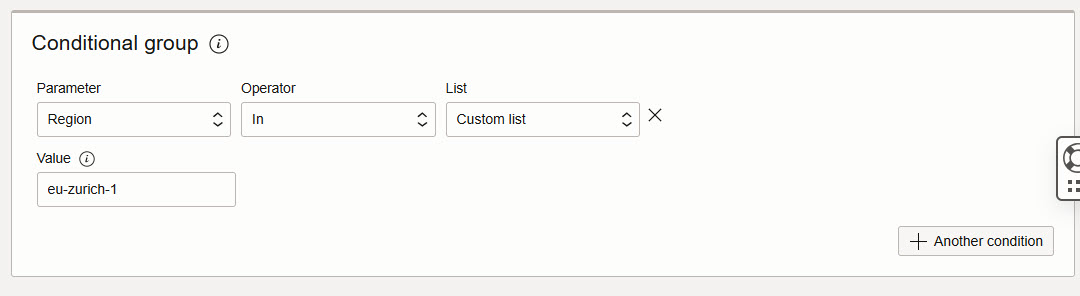
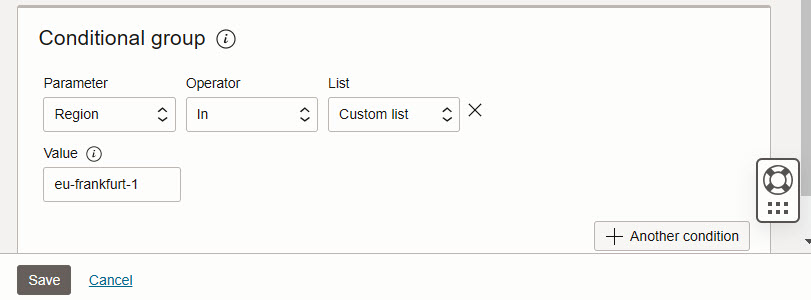
fixes typos

Changed region(s): [[0.0, 0.0, 1.0, 1.0], [0.0308, 0.2432, 0.6165, 0.6993], [0.0, 0.0912, 0.3083, 0.1824]]

diff --git a/lab/ex02/2x03-Exercise.md b/lab/ex02/2x03-Exercise.md
@@ -47,7 +47,7 @@ have select the proper compartment in from the dropdown list on left side.
 
 We must add the responder recipe to target configuration.
 
-Cloud Guard -> Configuration -> Targets
+Identity & Security -> Cloud Guard -> Configuration -> Targets
 
 ![>> step_1](../../images/screenshot-cloud-guard-auto-resolve_1.jpg)
 
@@ -56,7 +56,7 @@ Select your created target an scroll at the bottom.
 ![>> step_2](../../images/screenshot-cloud-guard-auto-resolve_2.jpg)
 
 In section _Configuration_ und _Responder recipes_, add recipe. Select your
-responder receive from dropdown list and press _Add recipes_. Do not select the
+responder recipe from dropdown list and press _Add recipes_. Do not select the
 Oracle managed recipe as you have no privileges there to change any settings.
 
 ![>> step_3](../../images/screenshot-cloud-guard-auto-resolve_3.jpg)
@@ -73,7 +73,12 @@ compartment level. We set condition
 
 - In section _Setting_, activated _Execute automatically_.
 - Enable checkbox to confirm the execution.
-- Set Conditional Group for parameter region to eu-zurich_1
+- Set Conditional Group for parameter region to **eu-frankfurt-1**
+- Parameter: Region
+- Operator: In
+- List: Custom List
+- Value: eu-frankfurt-1
+
 
 ![>> step_5](../../images/screenshot-cloud-guard-auto-resolve_5.jpg)
 ![>> step_6](../../images/screenshot-cloud-guard-auto-resolve_6.jpg)
@@ -90,9 +95,9 @@ Add basic information and description. Call it _private_bucket_. Ensure you are
 in the correct compartment. If not, select your compartment in left side dropdown
 menu.
 
-Press _Create Bucket_.
+Go to Storage -> Object Storage & Archive Storage -> *Create Bucket*.
 
-- Set Bucket Name to _public-bucket_ and let other settings as per default.
+- Set Bucket Name to _private-bucket_ and let other settings as per default.
 
 ![>> step7](../../images/screenshot-cloud-guard-auto-resolve_7.jpg)
 
@@ -100,7 +105,7 @@ Press _Create_ at the bottom.
 
 #### Edit Visibility
 
-Edit created bucket by click on the three dots on bucket line -> Edit Visibility.
+Edit created bucket from above by click on the three dots on bucket line -> Edit Visibility. Change it to public.
 
 ![>> step_8](../../images/screenshot-cloud-guard-auto-resolve_8.jpg)
 
@@ -115,16 +120,18 @@ The bucket is set to public and marked by a yellow triangle.
 #### Verify Auto Resolving
 
 After a couple of seconds, you can verify the Responder activity. There are two
-new entries to make the bucket private Cloud Guard -> Alerts -> Responder activity
+new entries to make the bucket private.
+
+Identity & Security -> Cloud Guard -> Alerts -> Responder activity
 
 ![>> step_10](../../images/screenshot-cloud-guard-auto-resolve_10.jpg)
 
 #### Verification
 
-The visibility for your created Object Storage bucket has automatically changed
+The visibility for your Object Storage bucket has automatically changed
 now to Private.
 
-Storage -> Buckets
+Storage -> Object Storage -> Buckets
 
 ![>> step_11](../../images/screenshot-cloud-guard-auto-resolve_11.jpg)
 

diff --git a/lab/ex02/2x04-Exercise.md b/lab/ex02/2x04-Exercise.md
@@ -39,8 +39,6 @@ your designated compartment.
 Login as User XYZ in OCI console. Ensure you have select the proper compartment
 in from the dropdown list on left side.
 
->> Overview
-
 ### Enable Auto Resolve Notification by Topic
 
 #### Create Topic, Subscription and Confirmation
@@ -48,23 +46,23 @@ in from the dropdown list on left side.
 A topic and a subscription is required to enable the notification service based
 on events.
 
-1. Developer Services -> Application Integration -> Notifications -> Create Topic
+Developer Services -> Application Integration -> Notifications -> Create Topic
 
 ![>> step_1](../../images/screenshot-cloud-guard-notifications_1.jpg)
 
-2. Add details, _Create_.
+Add details, _Create_.
 
 ![>> step_2](../../images/screenshot-cloud-guard-notifications_2.jpg)
 
-3. The state of the new created topic is active.
+The state of the new created topic is active.
 
 ![>> step_3](../../images/screenshot-cloud-guard-notifications_3.jpg)
 
-4. View the details, click on topic name. Create a new Subscription: _Create Subscription_.
+View the details, click on topic name. Create a new Subscription: _Create Subscription_.
 
 ![>> step_4](../../images/screenshot-cloud-guard-notifications_4.jpg)
 
-5. Select:
+Select:
 
 - Protocol: Email
 - Email: add your personal mail address, a mail address where you have immediate
@@ -74,7 +72,7 @@ Create the subscription and check your inbox.
 
 ![>> step_5](../../images/screenshot-cloud-guard-notifications_5.jpg)
 
-1. Confirm the subscription
+Confirm the subscription
 
 ![>> step_6](../../images/screenshot-cloud-guard-notifications_6.jpg)
 
@@ -88,11 +86,11 @@ We create a rule based on Cloud Guard changes.
 
 Observability & Management -> Events Service -> Rules -> _Create Rule_.
 
-1. Set Display Name and Description, as example _rule-oci-sec-ws-lab-00-cloudguard_.
+Set Display Name and Description, as example _rule-oci-sec-ws-lab-00-cloudguard_.
 
 ![>> step_1](../../images/screenshot-cloud-guard-rule_1.jpg)
 
-2. Select Rule Condition.
+Select Rule Condition.
 
 In section _Rule Conditions_, select _Service Name_ and _Event Type_. Select
 these event types:
@@ -103,11 +101,22 @@ these event types:
 
 ![>> step_2](../../images/screenshot-cloud-guard-rule_2.jpg)
 
-3. Select Actions
+Select Actions
 
 - Action-Type: Notifications
 - Notifications-Compartment: OCI-SEC-WS-LAB-<nn> (your compartment name)
 - Topic: topic-oci-sec-ws-lab-001 (the topic you created)
+
+![>> step_3](../../images/screenshot-cloud-guard-rule_3.jpg)
+
+### Test
+
+#### Change the visibility of an Object Storage bucket to public
+
+Storage -> Object Storage -> Buckets
+
+Change the visibility and verify if you get a notification by mail.
+
 
 ## Summary {.unlisted .unnumbered}
 

diff --git a/lab/ex02/2x02-Exercise.md b/lab/ex02/2x02-Exercise.md
@@ -203,27 +203,16 @@ Confirm.
 
 #### Verification
 
-After some minutes, the visibility for your created Object Storage bucket has changed back to _Private_.
+After some seconds, the visibility for your created Object Storage bucket has changed back to _Private_.
 
 Storage -> Object Storage -> Buckets
 
 ![>> alert_5](../../images/screenshot-cloud-guard-alert_5.jpg)
 
-In Cloud Guard alert view, the state changes after some minutes too.
-
-#### Mark Problem as Resolved
-
-Identity & Security -> Cloud Guard -> Alerts -> Problems.
-
-Select your problem and mark entry as resolved by clicking on button _Mark as_resolved_.
-
-![>> alert_6](../../images/screenshot-cloud-guard-alert_6.jpg)
-
-Confirm.
-
-![>> alert_7](../../images/screenshot-cloud-guard-alert_7.jpg)
+In Cloud Guard alert view, the state changes after a couple of seconds too.
 
 The alert is not longer visible in alert list.
+
 
 ## Summary {.unlisted .unnumbered}
 
